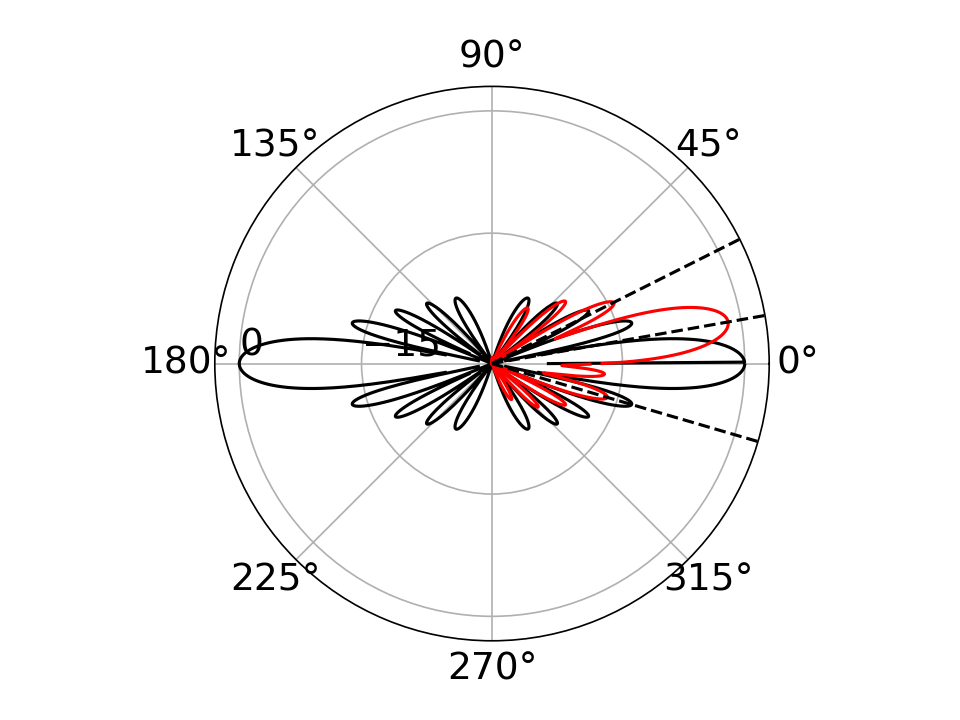
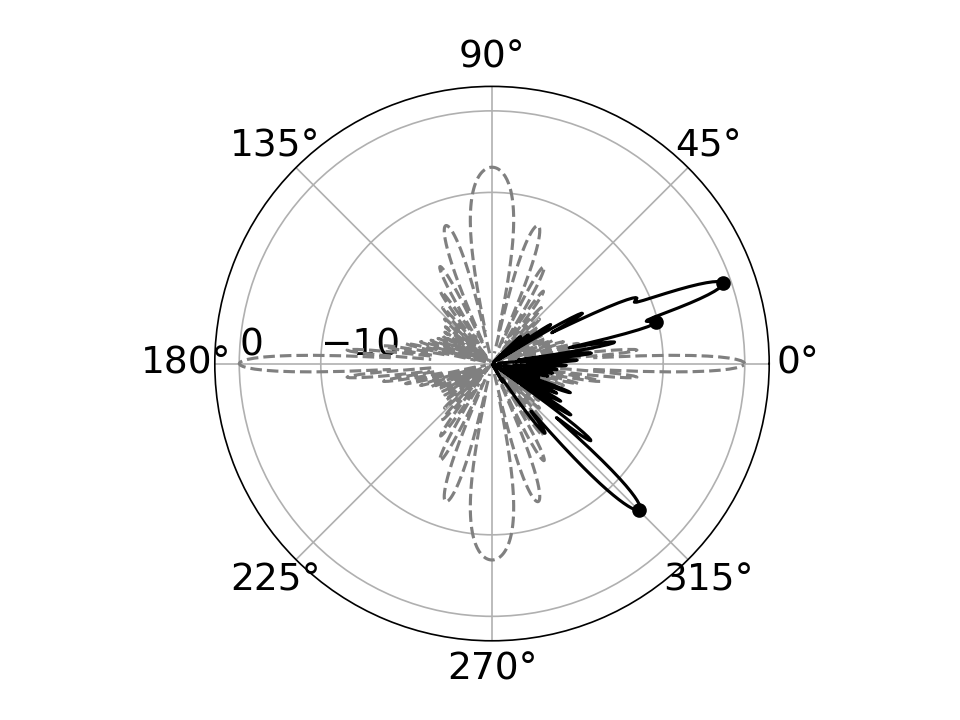
adding functionality to track beams in multimode

Changed region(s): [[0.25, 0.3056, 0.7812, 0.7944], [0.4688, 0.2139, 0.5625, 0.275], [0.7188, 0.5806, 0.7812, 0.6111]]

diff --git a/2026/MEEP/radiation_pattern.py b/2026/MEEP/radiation_pattern.py
@@ -18,33 +18,40 @@ def calculate_radiation_pattern(simulation,n2f_objs):
 		Pz = np.real(E[:,0]*H[:,1]-E[:,1]*H[:,0])
 		Pr = np.sqrt(np.square(Px)+np.square(Py)+np.square(Pz))
 		directivity = 10.0*np.log10(Pr/constants.normalization)
-		results.append((angles,directivity))
+		results.append((angles,directivity,"data"))
 	return results
 def calculate_theoretical_radiation_pattern(phi_0,frequency):
-	results = []
+	directivity = []
 	angles = 2*np.pi/constants.npts*np.arange(constants.npts)
 	for theta in angles:
-		if(theta!=0.0):
-			pr_th_num = np.sin(constants.n_antenna*np.pi*constants.d_y*frequency*(np.sin(theta)-np.sin(phi_0*np.pi/180)))
-			pr_th_den = np.sin(1.0*np.pi*constants.d_y*frequency*(np.sin(theta)-np.sin(phi_0*np.pi/180)))
-			results.append(pr_th_num*pr_th_num/pr_th_den/pr_th_den/constants.n_antenna/constants.n_antenna)
+		if(theta==0.0 and phi_0==0.0):
+			directivity.append(1.0)
 		else:
-			results.append(1.0/constants.n_antenna/constants.n_antenna)
-	results = 10.0*np.log10(results)-10.0*np.log10(constants.theory_normalization)
-	return (angles,results)
-def locate_beams(angles,p):
+			pr_th_num = np.sin(constants.n_antenna*np.pi*constants.d_y*frequency*(np.sin(theta)-np.sin(phi_0)))
+			pr_th_den = np.sin(1.0*np.pi*constants.d_y*frequency*(np.sin(theta)-np.sin(phi_0)))
+			directivity.append(pr_th_num*pr_th_num/pr_th_den/pr_th_den/constants.n_antenna/constants.n_antenna)
+	directivity = 10.0*np.log10(directivity)-10.0*np.log10(constants.theory_normalization)
+	return [(angles,directivity,"theory")]
+def locate_beams(rad_patterns):
 	results = []
 	current_lobe = []
+	current_power = []
 	In = False
-	m = np.max(p)
-	for i in range(1,constants.npts):
-		if(not In and (m-p[i])<=constants.beam_threshold and (m-p[i-1])>=constants.beam_threshold):
-			In = True
-			current_lobe.append(angles[i]) if angles[i]<=np.pi else current_lobe.append(angles[i]-2*np.pi)
-		elif(In and (m-p[i])<=constants.beam_threshold):
-			current_lobe.append(angles[i]) if angles[i]<=np.pi else current_lobe.append(angles[i]-2*np.pi)
-		else:
-			In=False
-			results.append(np.mean(current_lobe)) if current_lobe else None
-			current_lobe = []
+	for pattern in rad_patterns:
+		angles = pattern[0]
+		p = pattern[1]
+		m = np.max(p)
+		for i in range(1,constants.npts):
+			if(not In and (m-p[i])<=constants.beam_threshold and (m-p[i-1])>=constants.beam_threshold):
+				In = True
+				current_lobe.append(angles[i]) if angles[i]<=np.pi else current_lobe.append(angles[i]-2*np.pi)
+				current_power.append(p[i])
+			elif(In and (m-p[i])<=constants.beam_threshold):
+				current_lobe.append(angles[i]) if angles[i]<=np.pi else current_lobe.append(angles[i]-2*np.pi)
+				current_power.append(p[i])
+			else:
+				In=False
+				results.append((np.mean(current_lobe),np.max(current_power))) if current_lobe else None
+				current_lobe = []
+				current_power = []
 	return results

diff --git a/2026/MEEP/horn_series.py b/2026/MEEP/horn_series.py
@@ -21,7 +21,7 @@ sim = mp.Simulation(
 	resolution=constants.resolution)
 
 #Add Near 2 Far projection regions
-frequencies = np.array([1])*constants.frequency
+frequencies = np.array([3])*constants.frequency
 region = Near2Far_Region(constants.n2f_x_size,constants.n2f_y_size,frequencies)
 region_objs = region.create(sim)
 
@@ -35,10 +35,11 @@ sim.run(until=100)
 
 #Compute radiation patterns
 results = radiation_pattern.calculate_radiation_pattern(sim,region_objs)
-theory_results = radiation_pattern.calculate_theoretical_radiation_pattern(0.0,constants.frequency)
+theory_results = radiation_pattern.calculate_theoretical_radiation_pattern(0.0,3*constants.frequency)
 
 #Beamwidth analysis
-k = radiation_pattern.locate_beams(results[0][0],results[0][1])
+beams = radiation_pattern.locate_beams(results)
+print(beams)
 
 #Graph radiation patterns
-graph_patterns.plot_radiation_patterns(results,theory_results,"rad_pattern.png",beam_loc=k)
+graph_patterns.plot_radiation_patterns(theory_results+results,"rad_pattern.png",beam_loc=beams)

diff --git a/2026/MEEP/graph_patterns.py b/2026/MEEP/graph_patterns.py
@@ -1,17 +1,19 @@
 import matplotlib.pyplot as plt
+import constants
 
-def plot_radiation_patterns(results,theory_results,file_title,beam_loc=None):
+def plot_radiation_patterns(results,file_title,beam_loc=None):
 	f = plt.figure(dpi=150)
-	plt.polar(theory_results[0],theory_results[1],color='black')
-	plt.polar(results[0][0],results[0][1],color='red')
-	#plt.polar(results[1][0],results[1][1],color='green')
-	#plt.polar(results[2][0],results[2][1],color='blue')
+	for result in results:
+		if(result[2]=="data"):
+			plt.polar(result[0],result[1],color='black')
+		else:
+			plt.polar(result[0],result[1],'--',color='gray')
 	if(beam_loc):
 		for beam in beam_loc:
-			plt.polar([beam,beam],[-31,3],color='black',linestyle='dashed')
+			plt.polar(beam[0],beam[1],'o',color='black')
 	ax = plt.gca()
 	ax.set_rlim(-31,3)
-	ax.set_rticks([-15,0])
+	ax.set_rticks([-constants.beam_threshold,0])
 	ax.grid(True)
 	ax.set_rlabel_position(180)
 	ax.tick_params(labelsize=18)

diff --git a/2026/MEEP/constants.py b/2026/MEEP/constants.py
@@ -8,7 +8,7 @@ box_size = 0.9375
 d_y = 2*antenna_width
 n_antenna = 16
 phase = 0
-d_phase = 0.35
+d_phase = 2.0
 x0 = -0.5*antenna_length
 y0 = -y_size/2.0+3.75*antenna_width
 dx = 0.1
@@ -17,6 +17,7 @@ n2f_x_size = 22
 n2f_y_size = 134
 npts = 1080
 r = 1000
-normalization = 0.000033
+#normalization = 0.000033
+normalization = 0.001
 theory_normalization = 1.0
-beam_threshold = 15.0
+beam_threshold = 10.0

diff --git a/2026/MEEP/rf_horn.py b/2026/MEEP/rf_horn.py
@@ -46,8 +46,9 @@ class RF_horn:
 		a = np.zeros((N,1))
 		b = np.zeros((N,1))
 		a[0] = 1
-		a[3] = 1
-		a[7] = 1
+		a[2] = 1
+		a[5] = 1
+		a[8] = 1
 		omega = 2.0*np.pi*frequency
 		return lambda t: np.sum([a[n]*np.sin((n+1)*omega*t-phase)+b[n]*np.cos((n+1)*omega*t-phase) for n in range(N)],axis=0)
 	def add_source(self,frequency,phase,sources):
